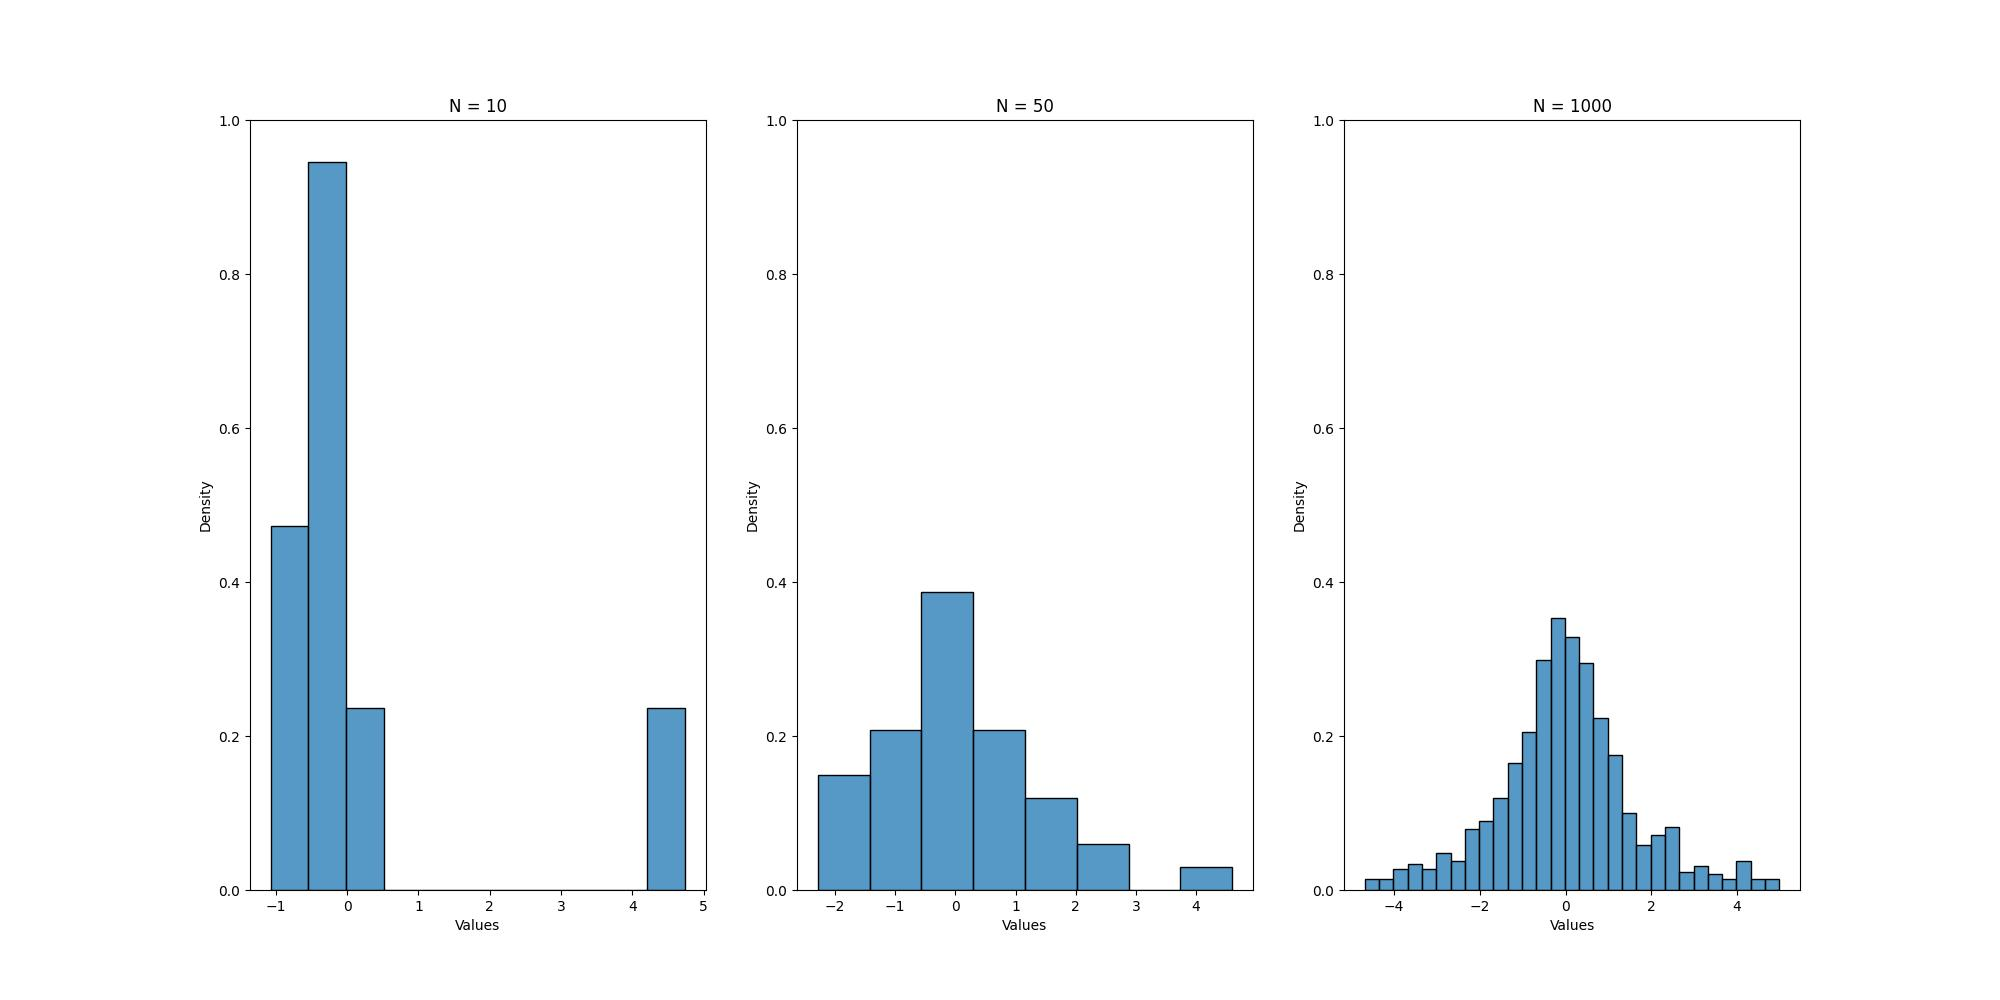
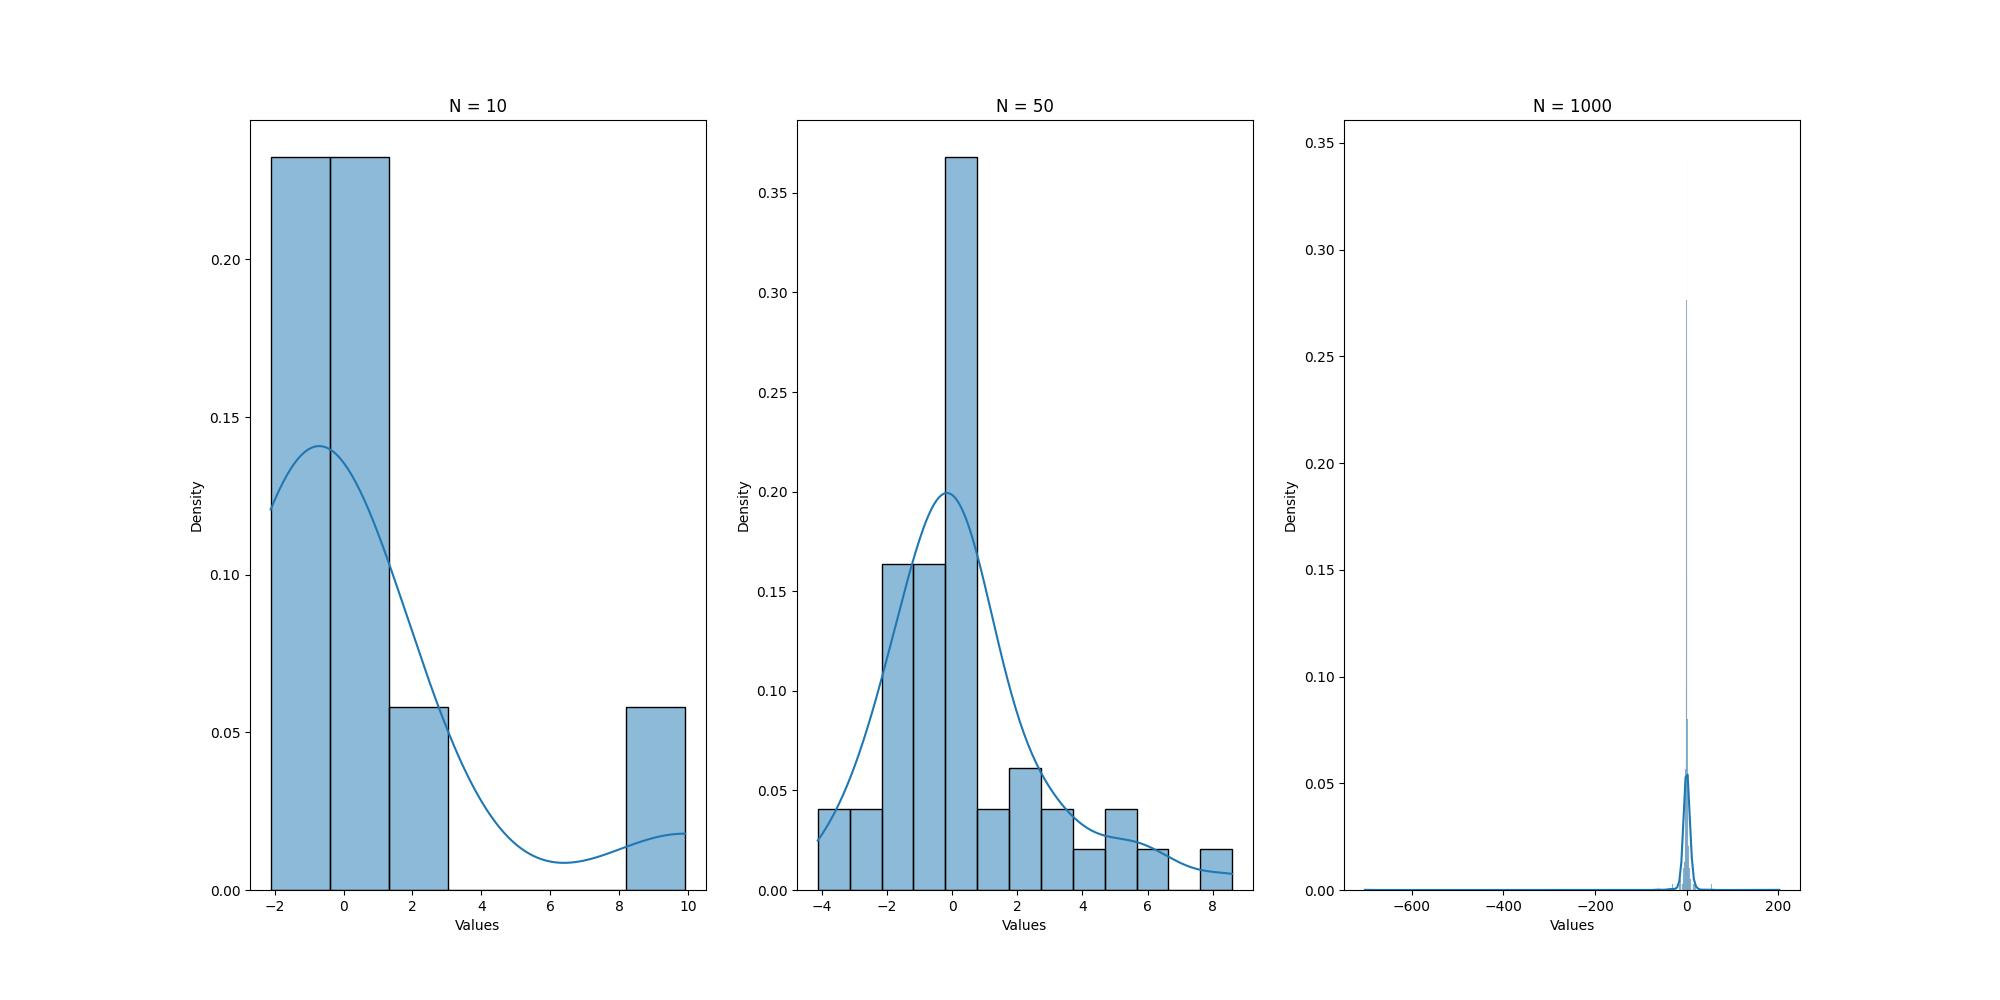
remove bound

diff --git a/lab_1/script.py b/lab_1/script.py
@@ -22,10 +22,8 @@ def drawPlots(label, func, bound):
     figure, axes = plt.subplots(1, 3, figsize=(20, 10))
     for index, count in enumerate(ns):
         values = func(count)
-        values = values[(values >= bound[0]) & (values <= bound[1])]
         sbn.histplot(values, ax=axes[index], stat='density', kde=True)
         axes[index].set_xlabel('Values')
-        axes[index].set_ylim(0, 1)
         axes[index].set_title(f'N = {count}')
     figure.savefig(f'{label}.jpg')
 
